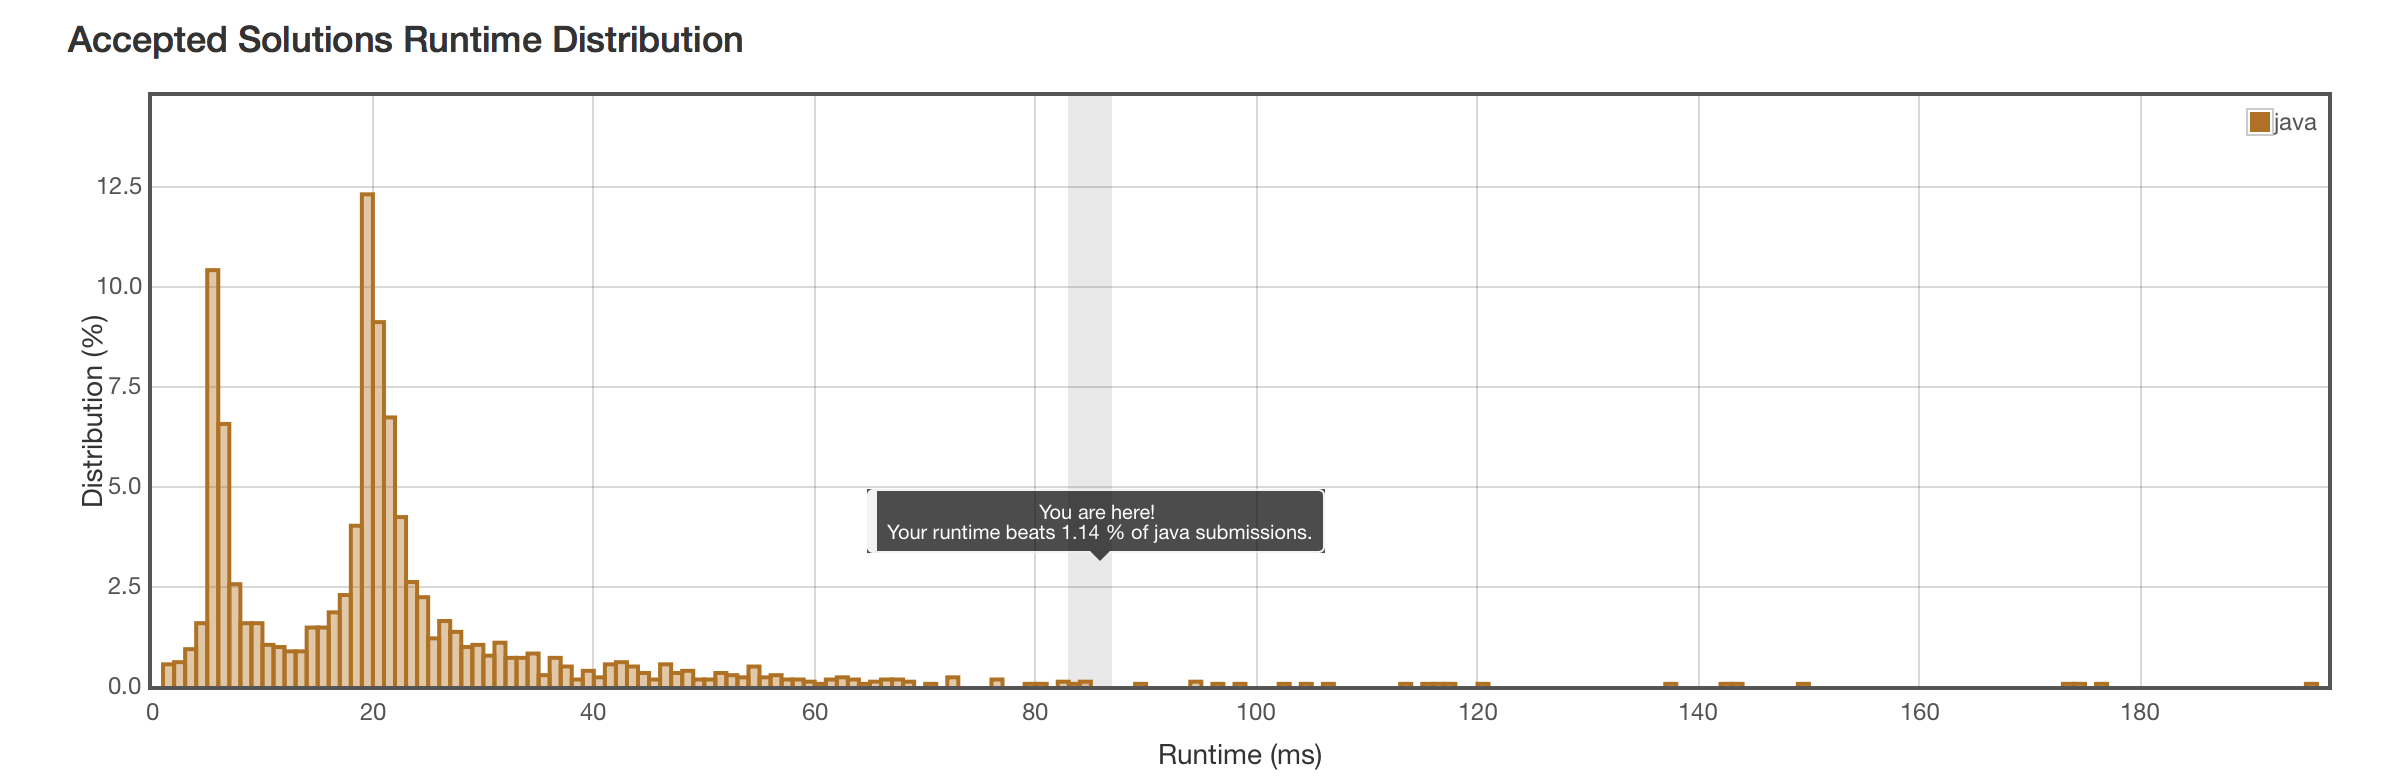
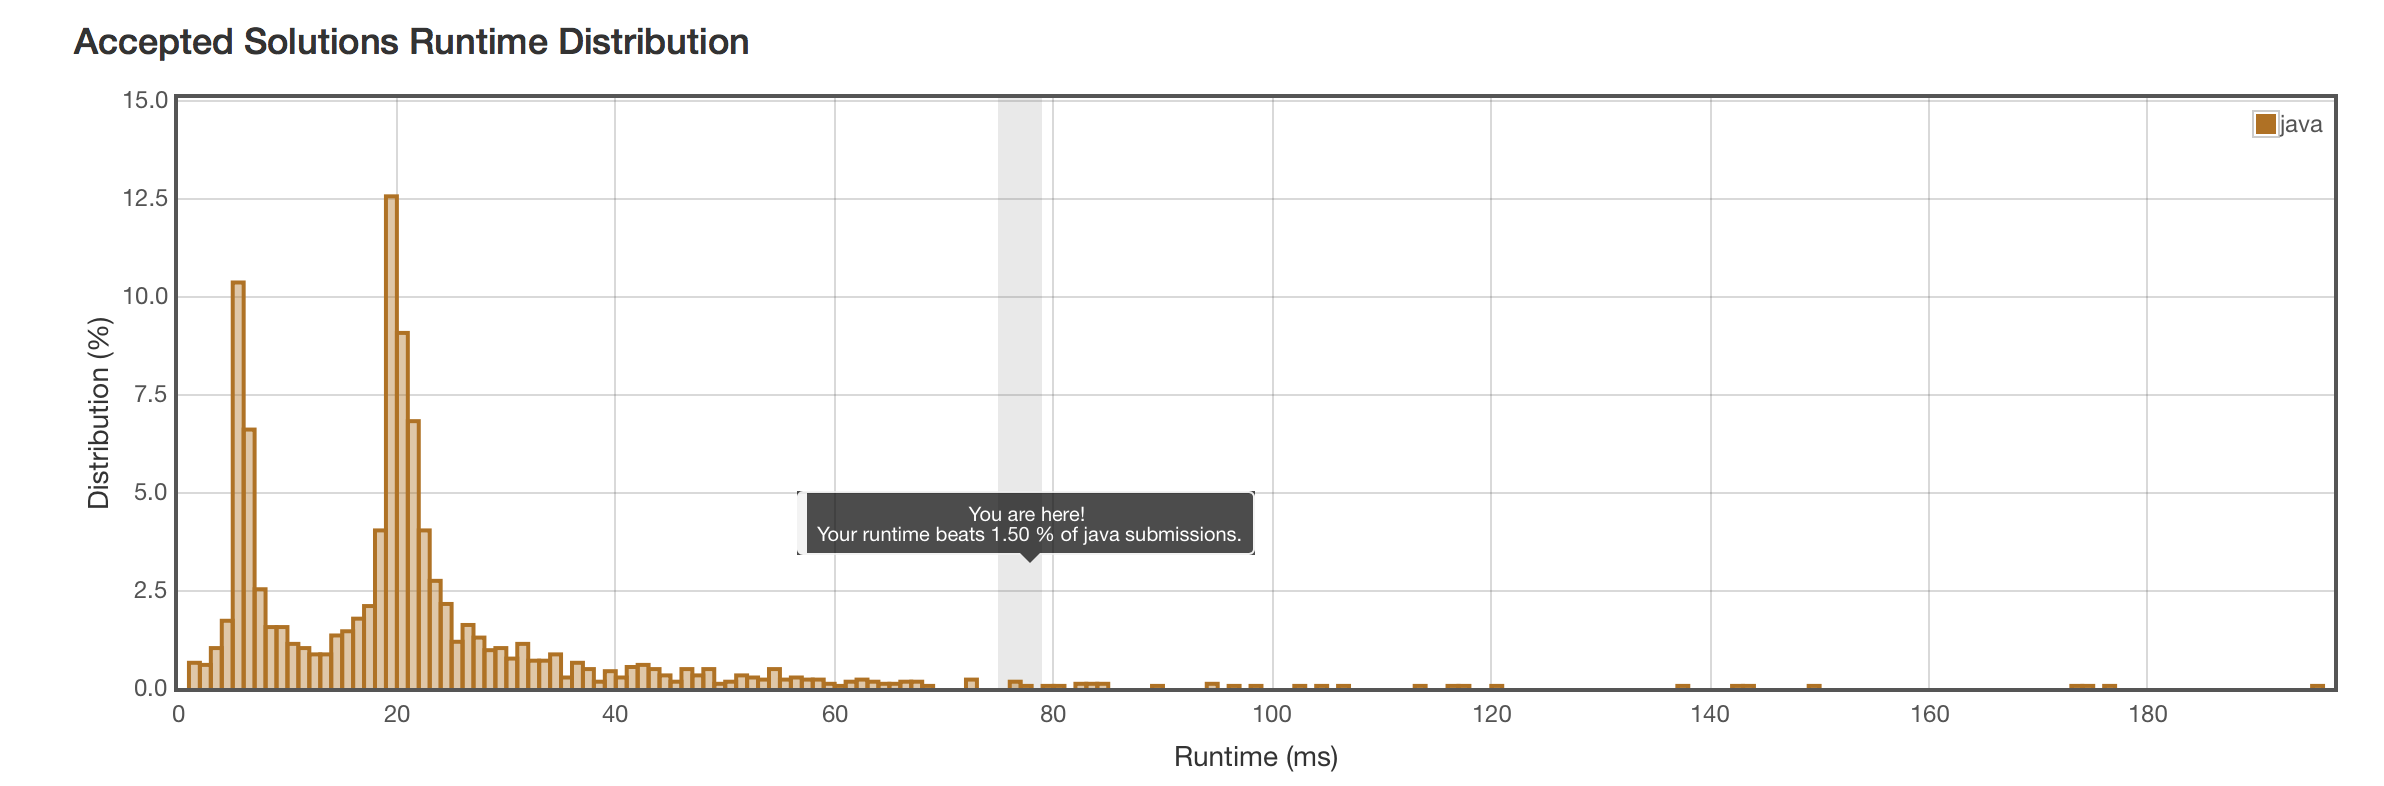
leetcode post

diff --git a/_posts/2017-05-09-leetcode-construct-binary-tree-from-preorder-and-inorder-traversal.md b/_posts/2017-05-09-leetcode-construct-binary-tree-from-preorder-and-inorder-traversal.md
@@ -4,7 +4,7 @@ title: "Leetcode - Algorithm - Construct Binary Tree From Preorder And Inorder T
 date: 2017-05-09 23:55:14
 author: "Wei SHEN"
 categories: ["algorithm","leetcode"]
-tags: [""]
+tags: ["tree","array","depth first search"]
 level: "medium"
 description: >
 ---
@@ -15,7 +15,7 @@ Given preorder and inorder traversal of a tree, construct the binary tree.
 Note:
 You may assume that duplicates do not exist in the tree.
 
-### 顺序遍历`preorder` $$O(n^2)$$
+### 顺序遍历`preorder` $$O(n\log_{}{n})$$
 遍历`preorder`，用根据节点在`inorder`中的顺序，决定插在哪里。假设现有`preorder=[8,2,10,11]`，`inorder=[2,8,10,11]`。其中`2-8-10`已经放好，最后一个`11`。插入的时候从根节点开始比较在`inorder`中的顺序，
 ```
   8
@@ -31,6 +31,7 @@ You may assume that duplicates do not exist in the tree.
          11
 ```
 
+注意，这里假设的前提是`preorder`和`inorder`两个数组本身没有错误，它们都描述了一个正确的二叉树。所以检错的步骤都被省略了。
 
 #### 代码
 ```java
@@ -51,7 +52,6 @@ public class Solution {
         TreeNode root = new TreeNode(preorder[0]);
         for (int i = 1; i < preorder.length; i++) {
             int index = inorderMap.get(preorder[i]);
-            if (index == -1) { return null; } // ERROR: find node in preorder but not inorder
             TreeNode cur = root;
             while (cur != null) {
                 if (inorderMap.get(cur.val) < index) { // 新节点应当在这个节点的右子树
@@ -62,11 +62,7 @@ public class Solution {
                     }
                 } else { // 新节点应当在这个节点的左子树
                     if (cur.left == null) {
-                        if (cur.right != null) { // ERROR: find conflit of preorder & inorder
-                            return null;
-                        } else {
-                            cur.left = new TreeNode(preorder[i]); break;
-                        }
+                        cur.left = new TreeNode(preorder[i]); break;
                     } else {
                         cur = cur.left;
                     }
@@ -79,28 +75,124 @@ public class Solution {
 ```
 
 #### 结果
-算法是对的。但超时了。
+银弹还没找到。
 ![construct-binary-tree-from-preorder-and-inorder-traversal-1](/images/leetcode/construct-binary-tree-from-preorder-and-inorder-traversal-1.png)
 
 
-### 解法2
-估计是把`inorder`转换成`List`开销太大。现在通过在`inorder`上加个指针试试。
+### 分治递归
+根据老套路，看到二叉树首先就应该考虑分治法。思路和前面一种做法有点不同。假设：
+* `preorder = [14, 6, 4, 1, 3, 5, 12, 8, 7, 10, 13, 16, 15, 19, 17, 18, 20]`
+* `inorder = [1, 3, 4, 5, 6, 7, 8, 10, 12, 13, 14, 15, 16, 17, 18, 19, 20]`
+
+首先以preorder首个元素，`14`节点为根。在inorder里查找`14`，并据此将inorder分为三个部分，左子树从`1~13`有10个元素，右子树从`15~20`有6个元素。
+`inorder` = `left: [1, 3, 4, 5, 6, 7, 8, 10, 12, 13]` + `root: [14]` + `right: [15, 16, 17, 18, 19, 20]`
+
+然后在preorder里，去掉首元素`14`，取inorder的左子树相同长度的10个元素，`[6, 4, 1, 3, 5, 12, 8, 7, 10, 13]`，这就是preorder的左子树。剩下的6个元素就是preorder的右子树。
+
+然后重复上面的步骤，直到元素的窗口为空。
 
 #### 代码
 ```java
-
+/**
+ * Definition for a binary tree node.
+ * public class TreeNode {
+ *     int val;
+ *     TreeNode left;
+ *     TreeNode right;
+ *     TreeNode(int x) { val = x; }
+ * }
+ */
+public class Solution {
+    public TreeNode buildTree(int[] preorder, int[] inorder) {
+        if (preorder.length == 0 || inorder.length == 0) { return null; }
+        return buildTreeRecur(preorder,0,preorder.length-1,inorder,0,inorder.length-1);
+    }
+    public TreeNode buildTreeRecur(int[] preorder, int preLo, int preHi, int[] inorder, int inLo, int inHi) {
+        if (preLo > preHi) { return null; }
+        TreeNode root = new TreeNode(preorder[preLo]);
+        int indexInInorder = indexOf(inorder,inLo,inHi,preorder[preLo]);
+        int leftSize = indexInInorder - inLo;
+        int rightSize = inHi - indexInInorder;
+        root.left = buildTreeRecur(preorder,preLo+1,preLo+leftSize,inorder,inLo,indexInInorder-1);
+        root.right = buildTreeRecur(preorder,preLo+leftSize+1,preHi,inorder,indexInInorder+1,inHi);
+        return root;
+    }
+    // return the index of target number in the array
+    // return -1 if target not found
+    // [lo,hi], both sides are inclusive
+    public int indexOf(int[] nums, int lo, int hi, int target) {
+        for (int i = lo; i <= hi; i++) {
+            if (nums[i] == target) { return i; }
+        }
+        return -1;
+    }
+}
 ```
 
 #### 结果
+已经到达第一个峰值，但还不是银弹！
 ![construct-binary-tree-from-preorder-and-inorder-traversal-2](/images/leetcode/construct-binary-tree-from-preorder-and-inorder-traversal-2.png)
 
 
-### 解法3
+### 去掉`indexOf()`函数
+之前的方法每次都要到`inorder`里查询在`inorder`里的index。如果按照元素在`preorder`里的顺序，事先将每个元素在`inorder`里的index全部用一个`HashMap`记录下来，就可以$$O(1)$$的速度查询。
 
 #### 代码
 ```java
+/**
+ * Definition for a binary tree node.
+ * public class TreeNode {
+ *     int val;
+ *     TreeNode left;
+ *     TreeNode right;
+ *     TreeNode(int x) { val = x; }
+ * }
+ */
+public class Solution {
+    public TreeNode buildTree(int[] preorder, int[] inorder) {
+        if (preorder.length == 0 || inorder.length == 0) { return null; }
+        Map<Integer,Integer> inorderMap = new HashMap<>();
+        for (int i = 0; i < inorder.length; i++) {
+            inorderMap.put(inorder[i],i);
+        }
+        return buildTreeRecur(preorder,0,preorder.length-1,inorder,0,inorder.length-1,inorderMap);
+    }
+    public TreeNode buildTreeRecur(int[] preorder, int preLo, int preHi, int[] inorder, int inLo, int inHi, Map<Integer,Integer> inorderMap) {
+        if (preLo > preHi) { return null; }
+        TreeNode root = new TreeNode(preorder[preLo]);
+        int indexInInorder = inorderMap.get(preorder[preLo]);
+        int leftSize = indexInInorder - inLo;
+        int rightSize = inHi - indexInInorder;
+        root.left = buildTreeRecur(preorder,preLo+1,preLo+leftSize,inorder,inLo,indexInInorder-1,inorderMap);
+        root.right = buildTreeRecur(preorder,preLo+leftSize+1,preHi,inorder,indexInInorder+1,inHi,inorderMap);
+        return root;
+    }
+}
+```
 
+#### 清理代码
+不需要同时传递`preorder`和`inorder`两个数组，以及他们的窗口。只需要传递`inorder`上的窗口。至于`preorder`只需要用一个指针`cur`指向当前根节点的位置即可。
+```java
+public class Solution {
+    public TreeNode buildTree(int[] preorder, int[] inorder) {
+        if (preorder.length == 0 || inorder.length == 0) { return null; }
+        Map<Integer,Integer> inorderMap = new HashMap<>();
+        for (int i = 0; i < inorder.length; i++) { inorderMap.put(inorder[i],i); }
+        return buildTreeRecur(preorder,0,0,inorder.length-1,inorderMap);
+    }
+    public TreeNode buildTreeRecur(int[] preorder, int cur, int lo, int hi, Map<Integer,Integer> inorderMap) {
+        if (lo > hi) { return null; }
+        TreeNode root = new TreeNode(preorder[cur]);
+        int indexInInorder = inorderMap.get(preorder[cur]);
+        int leftSize = indexInInorder - lo;
+        int rightSize = hi - indexInInorder;
+        root.left = buildTreeRecur(preorder,cur+1,lo,indexInInorder-1,inorderMap);
+        root.right = buildTreeRecur(preorder,cur+leftSize+1,indexInInorder+1,hi,inorderMap);
+        return root;
+    }
+}
 ```
 
 #### 结果
+银弹！
 ![construct-binary-tree-from-preorder-and-inorder-traversal-3](/images/leetcode/construct-binary-tree-from-preorder-and-inorder-traversal-3.png)
